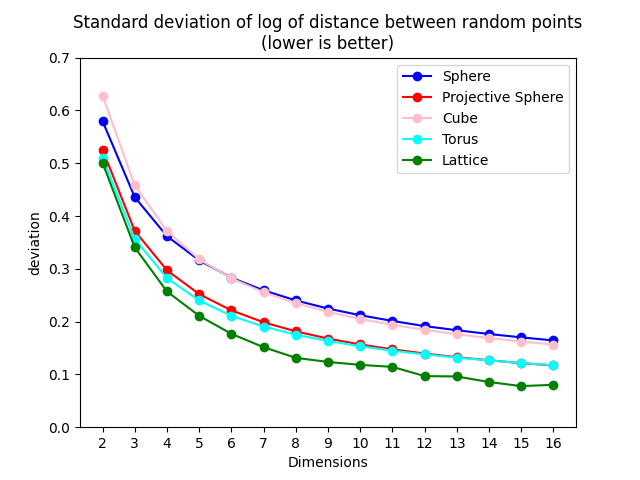
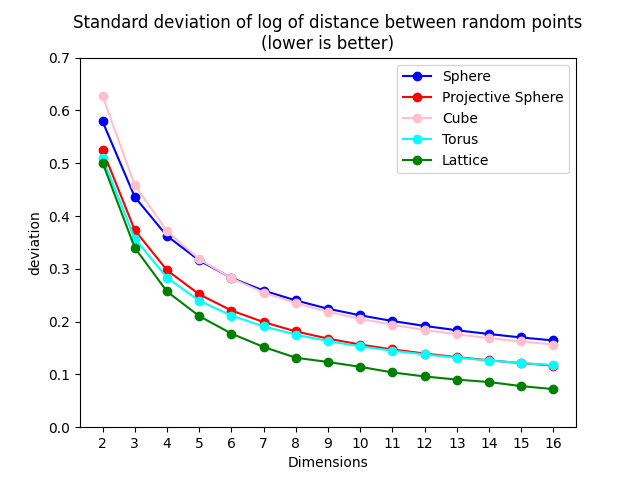
Improved sphere packing lattices above 9 dimensions

diff --git a/benchmark.py b/benchmark.py
@@ -151,6 +151,15 @@ offsets_7 = [[0] * 7,
         [1, 1, 0, 0, 1, 1, 0],
         [1, 1, 0, 1, 0, 0, 1]]
 
+"""
+0001111
+011001-
+01-1-00
+1010-01
+10--010
+11001-0
+1-0100-
+"""
 class point_7:
     def __init__(self, other_coords = None):
         if other_coords:
@@ -354,17 +363,18 @@ over_8d_offsets = [[]] * 9 + [
     [[0] * 11, [1] * 8 + [0, 0, 0]],
     [[0] * 12, [1] * 8 + [0] * 4, [1] * 4 + [0] * 4 + [1] * 4, [0] * 4 + [1] * 8],
     [[0] * 13, [1] * 8 + [0] * 5, [1] * 4 + [0] * 4 + [1] * 4 + [0], [0] * 4 + [1] * 8 + [0]],
-    [[0] * 14, [0, 0, 0, 0, 0, 0, 1, 1, 1, 1, 1, 1, 1, 1],
-        [0, 0, 1, 1, 1, 1, 0, 0, 0, 0, 1, 1, 1, 1],
-        [0, 0, 1, 1, 1, 1, 1, 1, 1, 1, 0, 0, 0, 0],
-        [1, 1, 0, 0, 1, 1, 0, 0, 1, 1, 0, 0, 1, 1],
-        [1, 1, 0, 0, 1, 1, 1, 1, 0, 0, 1, 1, 0, 0],
-        [1, 1, 1, 1, 0, 0, 0, 0, 1, 1, 1, 1, 0, 0],
-        [1, 1, 1, 1, 0, 0, 1, 1, 0, 0, 0, 0, 1, 1]],
+    xorvectors([[0, 0, 0, 1, 1, 1, 1] * 2, 
+        [0, 1, 1, 0, 0, 1, 1] * 2,
+        [1, 0, 1, 0, 1, 0, 1] * 2]),
     xorvectors([[0, 0, 0, 0, 0, 0, 0, 1, 1, 1, 1, 1, 1, 1, 1],
         [0, 0, 0, 1, 1, 1, 1, 0, 0, 0, 0, 1, 1, 1, 1],
         [0, 1, 1, 0, 0, 1, 1, 0, 0, 1, 1, 0, 0, 1, 1],
-        [1, 0, 1, 0, 1, 0, 1, 0, 1, 0, 1, 0, 1, 0, 1]])
+        [1, 0, 1, 0, 1, 0, 1, 0, 1, 0, 1, 0, 1, 0, 1]]),
+    xorvectors([[0, 0, 0, 0, 0, 0, 0, 0, 1, 1, 1, 1, 1, 1, 1, 1],
+        [0, 0, 0, 0, 1, 1, 1, 1, 0, 0, 0, 0, 1, 1, 1, 1],
+        [0, 0, 1, 1, 0, 0, 1, 1, 0, 0, 1, 1, 0, 0, 1, 1],
+        [0, 1, 0, 1, 0, 1, 0, 1, 0, 1, 0, 1, 0, 1, 0, 1],
+        [1, 1, 1, 1, 1, 1, 1, 1, 1, 1, 1, 1, 1, 1, 1, 1]])
 ]
 
 over_8d_offsets.append([x + [0] for x in over_8d_offsets[-1]])
@@ -391,11 +401,11 @@ class point_over_8d:
                 self.coords[i] += 1
                 self.parity ^= 1
 
-    def distance(self, other):
-        return self._closest(other)[0]
+    def distance(self, other, banlimit = None):
+        return self._closest(other, banlimit)[0]
 
-    def move_from(self, other, distance):
-        d, c = self._closest(other)
+    def move_from(self, other, distance, banlimit = None):
+        d, c = self._closest(other, banlimit)
         mag = distance/d
         self.coords = [tocoord + (tocoord-fromcoord)*mag for (tocoord, fromcoord) in zip(self.coords, c)]
         self._canonicalize()
@@ -407,20 +417,23 @@ class point_over_8d:
         other._canonicalize()
         return other
 
-    def _closest(self, other):
-        candidates = [self._closest2(self._make(other, offsets)) for offsets in over_8d_offsets[len(self.coords)]]
+    def _closest(self, other, banlimit):
+        candidates = [self._closest2(self._make(other, offsets), banlimit) for offsets in over_8d_offsets[len(self.coords)]]
         return min(candidates)
 
     def _make(self, other, offsets):
         return point_over_8d(None, [c + 0.5 if x else c for c, x in zip(other.coords, offsets)], other.parity)
 
-    def _closest2(self, other):
+    def _closest2(self, other, banlimit):
         parity = self.parity ^ other.parity
         d = len(self.coords)
         lowest_dim = -1
         lowest_amount = 2
         r = []
         for i in range(d):
+            allowed = True
+            if banlimit and ((banlimit <= i < 7) or i >= banlimit + 7):
+                allowed = False
             oc = other.coords[i]
             mc = self.coords[i]
             if oc > mc:
@@ -428,12 +441,12 @@ class point_over_8d:
                 if diff > 0:
                     r.append(oc - 1)
                     parity ^= 1
-                    if diff < lowest_amount:
+                    if diff < lowest_amount and allowed:
                         lowest_dim = i
                         lowest_amount = diff
                 else:
                     r.append(oc)
-                    if -diff < lowest_amount:
+                    if -diff < lowest_amount and allowed:
                         lowest_dim = i
                         lowest_amount = -diff
             else:
@@ -441,12 +454,12 @@ class point_over_8d:
                 if diff > 0:
                     r.append(oc + 1)
                     parity ^= 1
-                    if diff < lowest_amount:
+                    if diff < lowest_amount and allowed:
                         lowest_dim = i
                         lowest_amount = diff
                 else:
                     r.append(oc)
-                    if -diff < lowest_amount:
+                    if -diff < lowest_amount and allowed:
                         lowest_dim = i
                         lowest_amount = -diff
         if parity:
@@ -455,6 +468,38 @@ class point_over_8d:
             else:
                 r[lowest_dim] += 1
         return (sum((a-b)**2 for (a, b) in zip(self.coords, r))**(1/2), r)
+
+class point_to_14d:
+    def __init__(self, d, other_coords = None, other_parity = None):
+        if other_coords:
+            self.coords = other_coords[:]
+            self.parity = other_parity
+            self._canonicalize()
+        else:
+            self.coords = [uniform(0, 1) for x in range(d)]
+            self.parity = randrange(2)
+
+    def clone(self):
+        return point_to_14d(0, self.coords, self.parity)
+
+    def _expand(self):
+        return point_over_8d(None, self.coords + self.coords[len(self.coords) - 7:7], self.parity)
+
+    def _contract(self, other):
+        self.parity = other.parity
+        self.coords = other.coords[:len(self.coords)]
+
+    def _canonicalize(self):
+        self._contract(self._expand())
+
+    def distance(self, other):
+        return self._expand().distance(other._expand(), len(self.coords) - 7)
+
+    def move_from(self, other, distance):
+        p1 = self._expand()
+        p2 = other._expand()
+        p1.move_from(p2, distance, len(self.coords) - 7)
+        self._contract(p1)
 
 class point_to_5d:
     """
@@ -715,10 +760,10 @@ lattice_factories = [lambda: point_to_4d(2),
         lambda: point_to_8d(7),
         lambda: point_to_8d(8),
         lambda: point_over_8d(9),
-        lambda: point_over_8d(10),
-        lambda: point_over_8d(11),
-        lambda: point_over_8d(12),
-        lambda: point_over_8d(13),
+        lambda: point_to_14d(10),
+        lambda: point_to_14d(11),
+        lambda: point_to_14d(12),
+        lambda: point_to_14d(13),
         lambda: point_over_8d(14),
         lambda: point_over_8d(15),
         lambda: point_over_8d(16)]
@@ -752,7 +797,7 @@ def show_distances():
     ax.legend()
     plt.show()
 
-#show_distances()
+show_distances()
 
 def close(a, b):
     assert a-b < .00001
